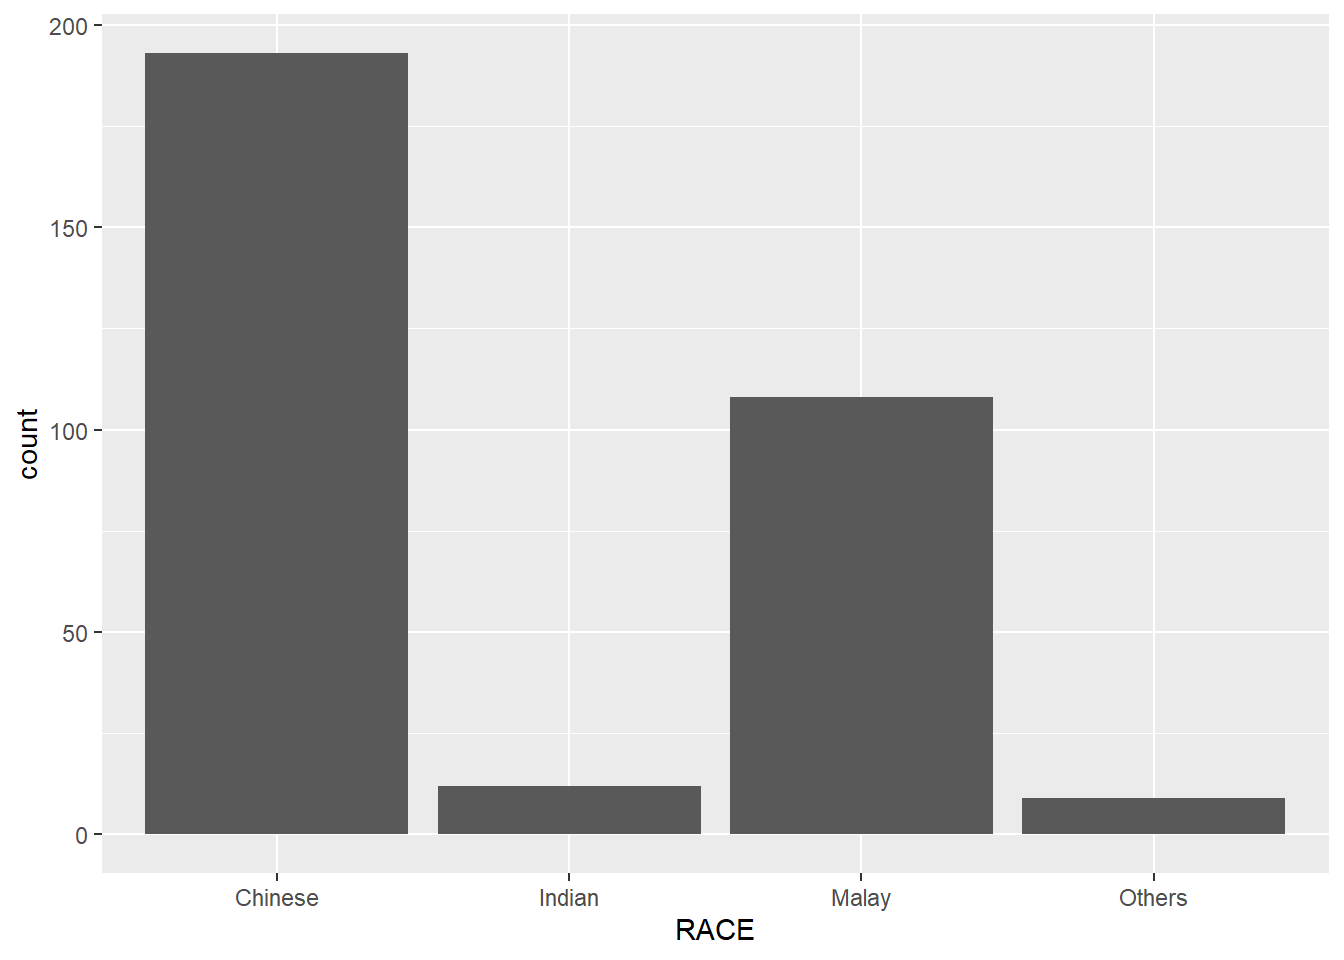
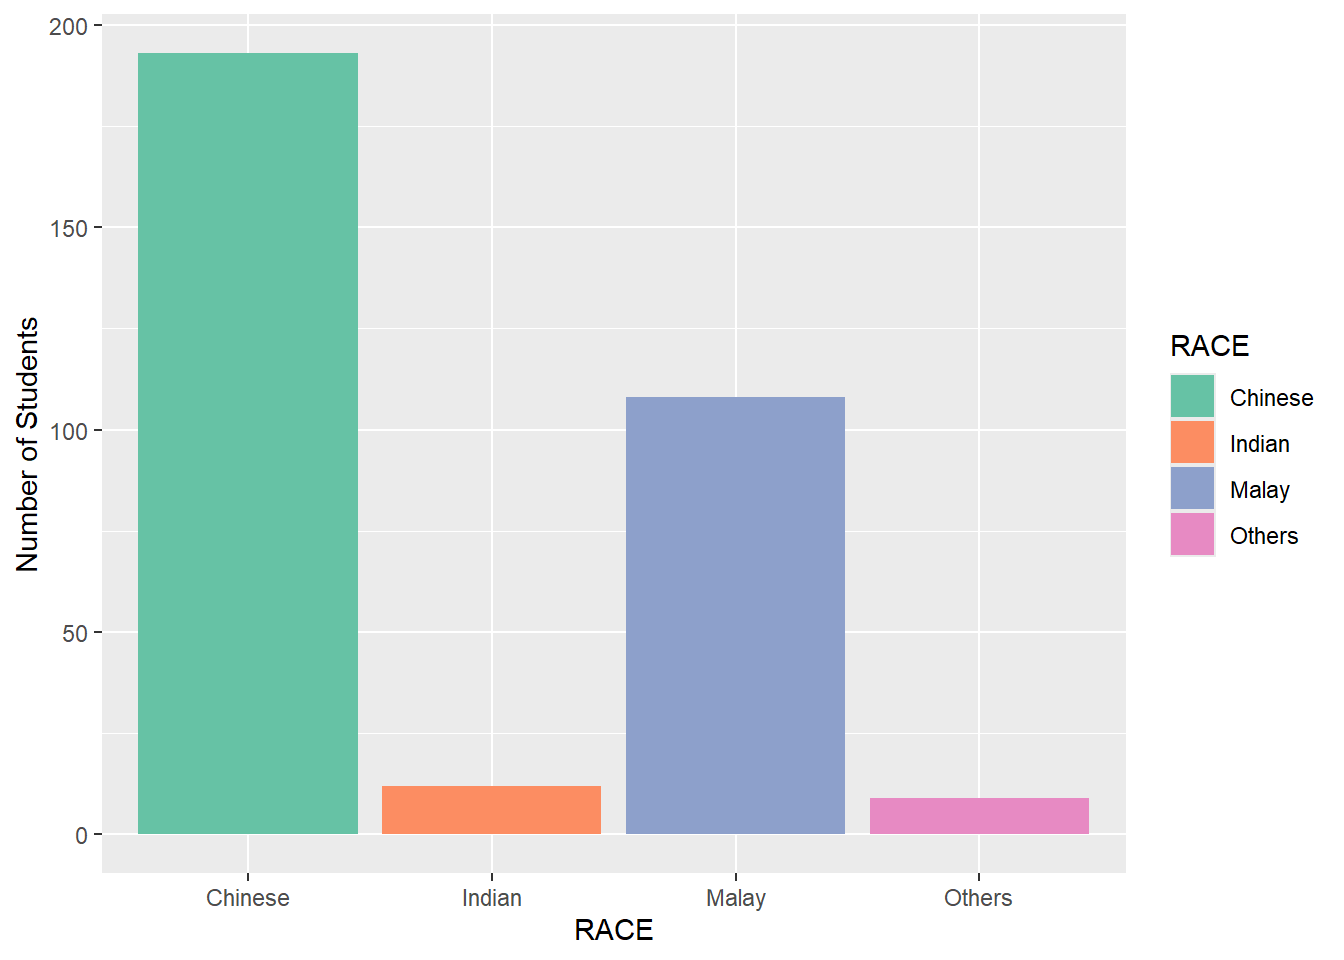
Commit bar Hand-on Exercise Barplot aesthetic

diff --git a/_site/Hands-on_EX/Hands-on_EX01/Hands-on_Ex01.html b/_site/Hands-on_EX/Hands-on_EX01/Hands-on_Ex01.html
@@ -232,8 +232,10 @@ dbl (3): ENGLISH, MATHS, SCIENCE
 <h1>Plotting a simple bar chart</h1>
 <div class="cell">
 <div class="code-copy-outer-scaffold"><div class="sourceCode cell-code" id="cb4"><pre class="sourceCode r code-with-copy"><code class="sourceCode r"><span id="cb4-1"><a href="#cb4-1" aria-hidden="true" tabindex="-1"></a><span class="fu">ggplot</span>(<span class="at">data =</span> exam_data, </span>
-<span id="cb4-2"><a href="#cb4-2" aria-hidden="true" tabindex="-1"></a>       <span class="fu">aes</span>(<span class="at">x =</span> RACE)) <span class="sc">+</span></span>
-<span id="cb4-3"><a href="#cb4-3" aria-hidden="true" tabindex="-1"></a>  <span class="fu">geom_bar</span>()</span></code></pre></div><button title="Copy to Clipboard" class="code-copy-button"><i class="bi"></i></button></div>
+<span id="cb4-2"><a href="#cb4-2" aria-hidden="true" tabindex="-1"></a>       <span class="fu">aes</span>(<span class="at">x =</span> RACE,<span class="at">fill=</span>RACE)) <span class="sc">+</span></span>
+<span id="cb4-3"><a href="#cb4-3" aria-hidden="true" tabindex="-1"></a>  <span class="fu">geom_bar</span>()<span class="sc">+</span></span>
+<span id="cb4-4"><a href="#cb4-4" aria-hidden="true" tabindex="-1"></a>  <span class="fu">scale_fill_brewer</span>(<span class="at">palette =</span> <span class="st">"Set2"</span>)<span class="sc">+</span></span>
+<span id="cb4-5"><a href="#cb4-5" aria-hidden="true" tabindex="-1"></a>  <span class="fu">labs</span>(<span class="at">y =</span> <span class="st">"Number of Students"</span>)</span></code></pre></div><button title="Copy to Clipboard" class="code-copy-button"><i class="bi"></i></button></div>
 <div class="cell-output-display">
 <div>
 <figure class="figure">
